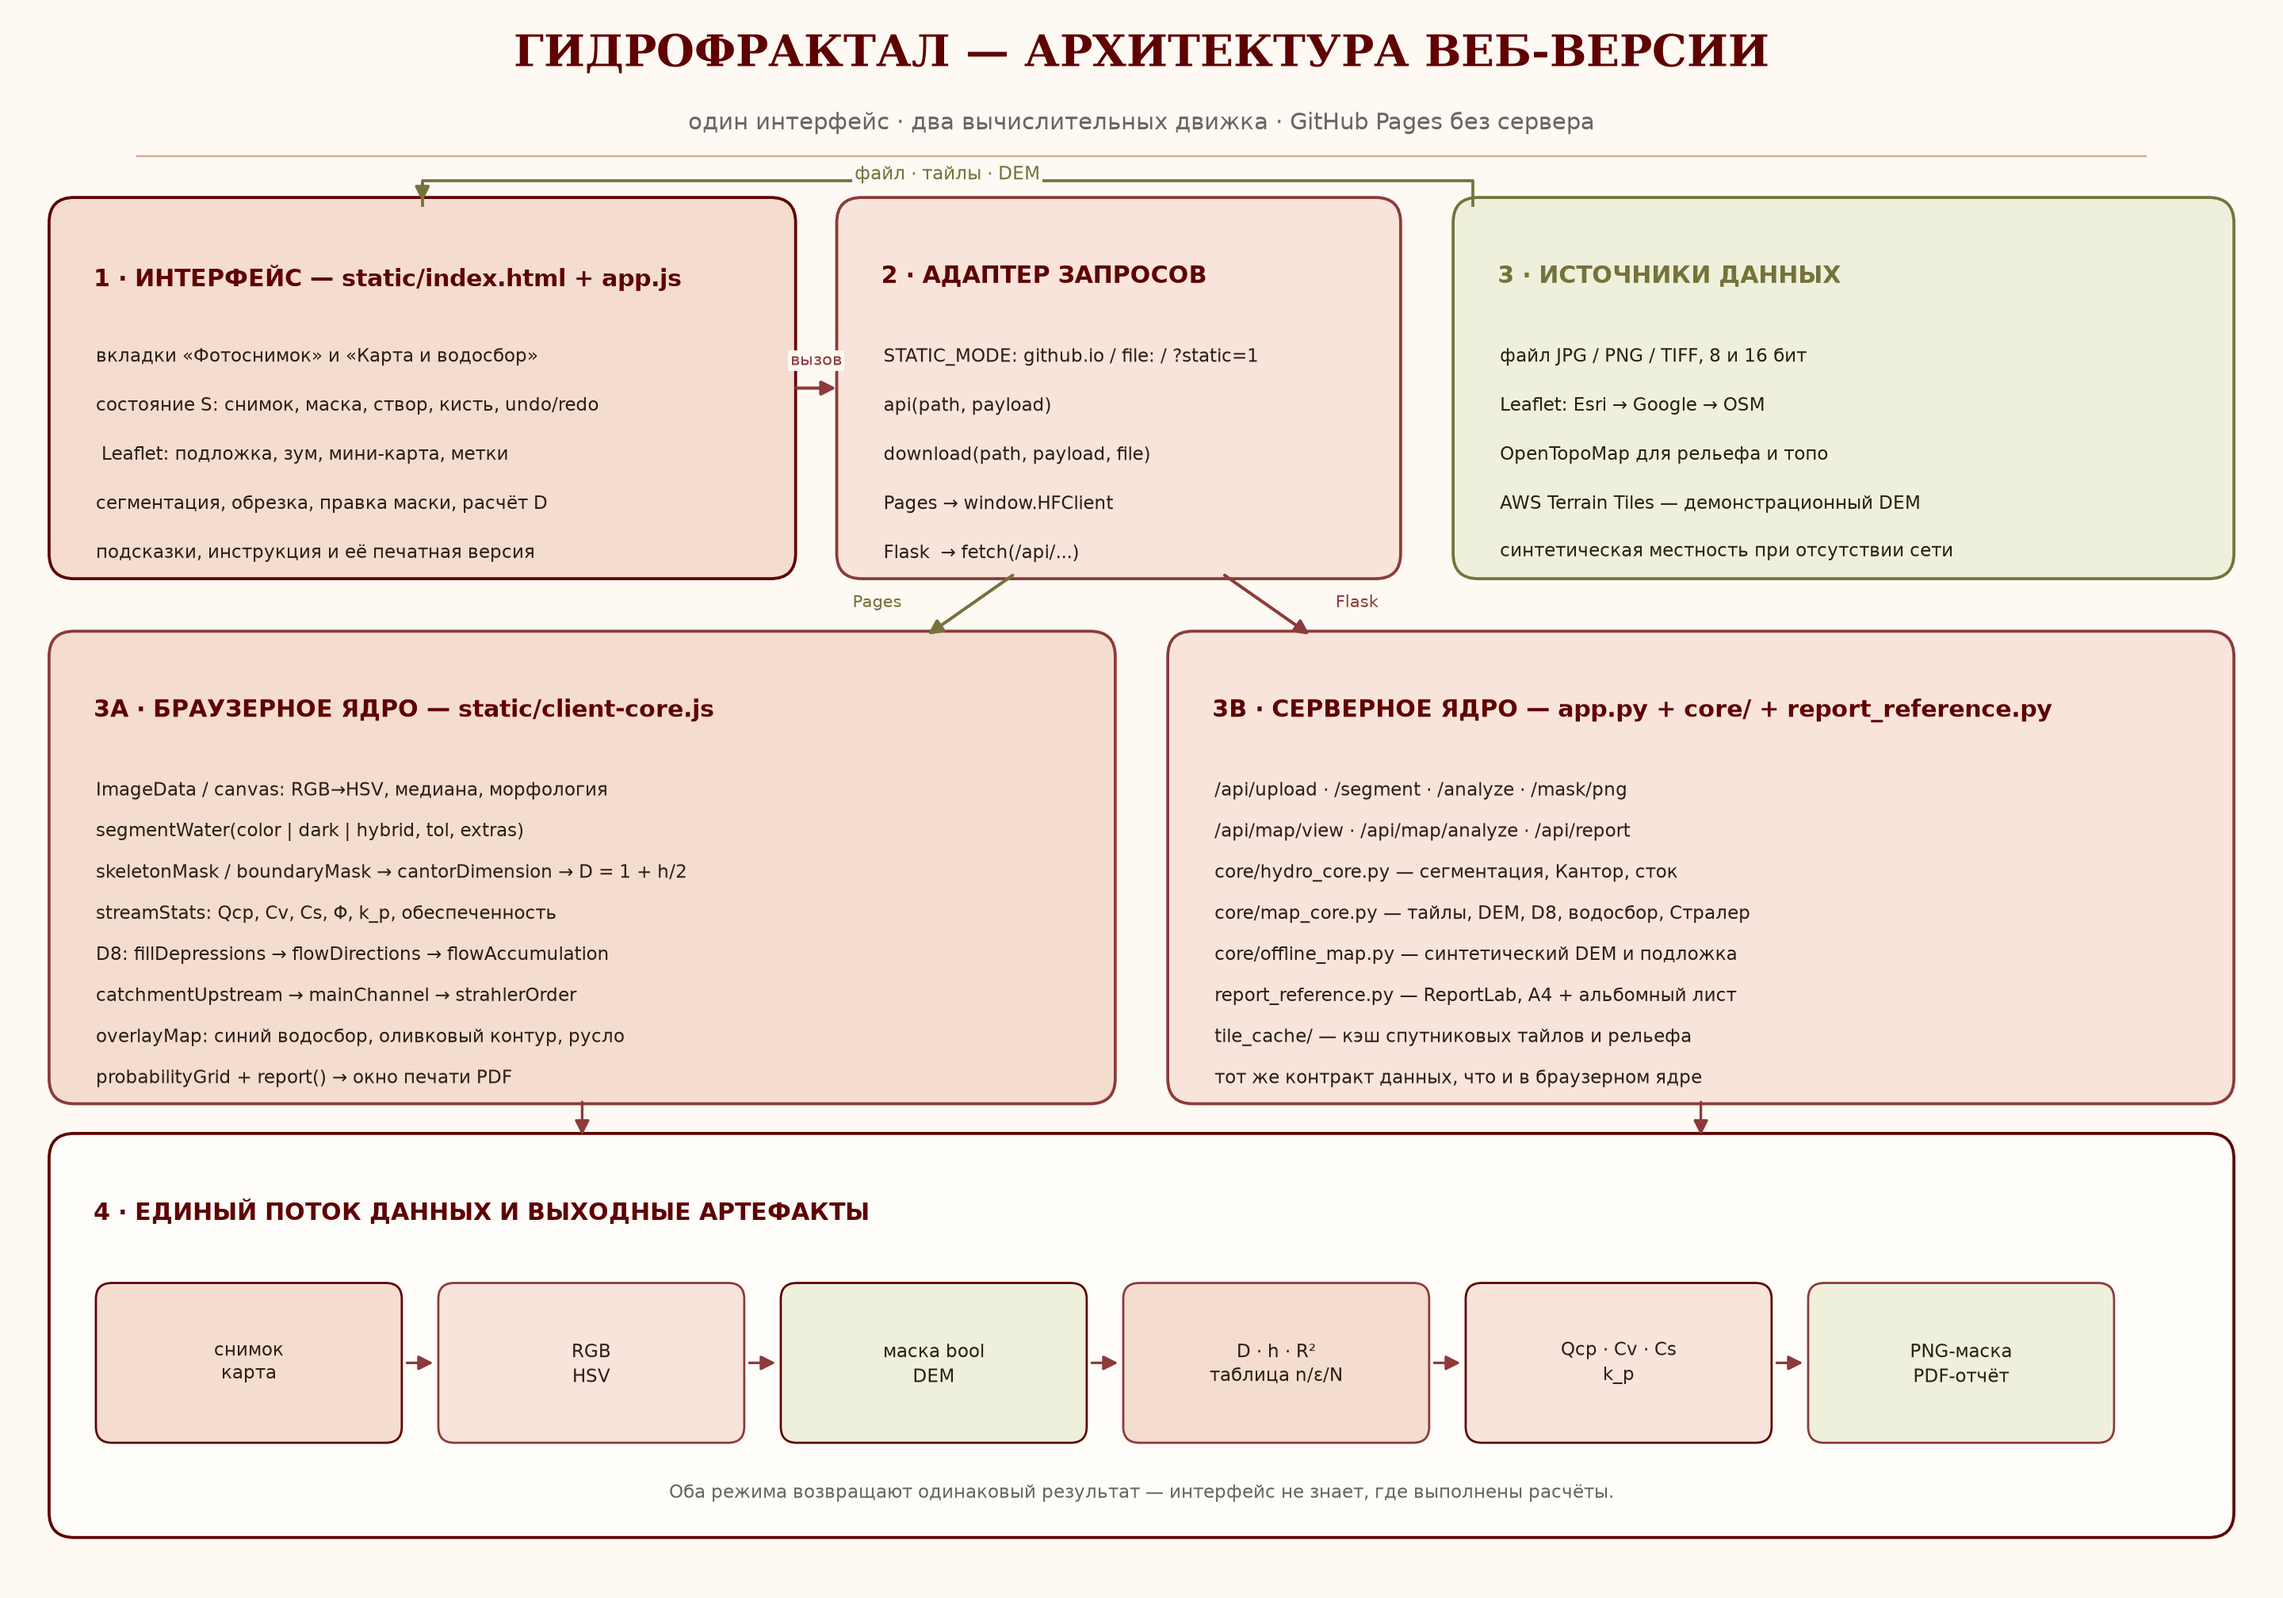
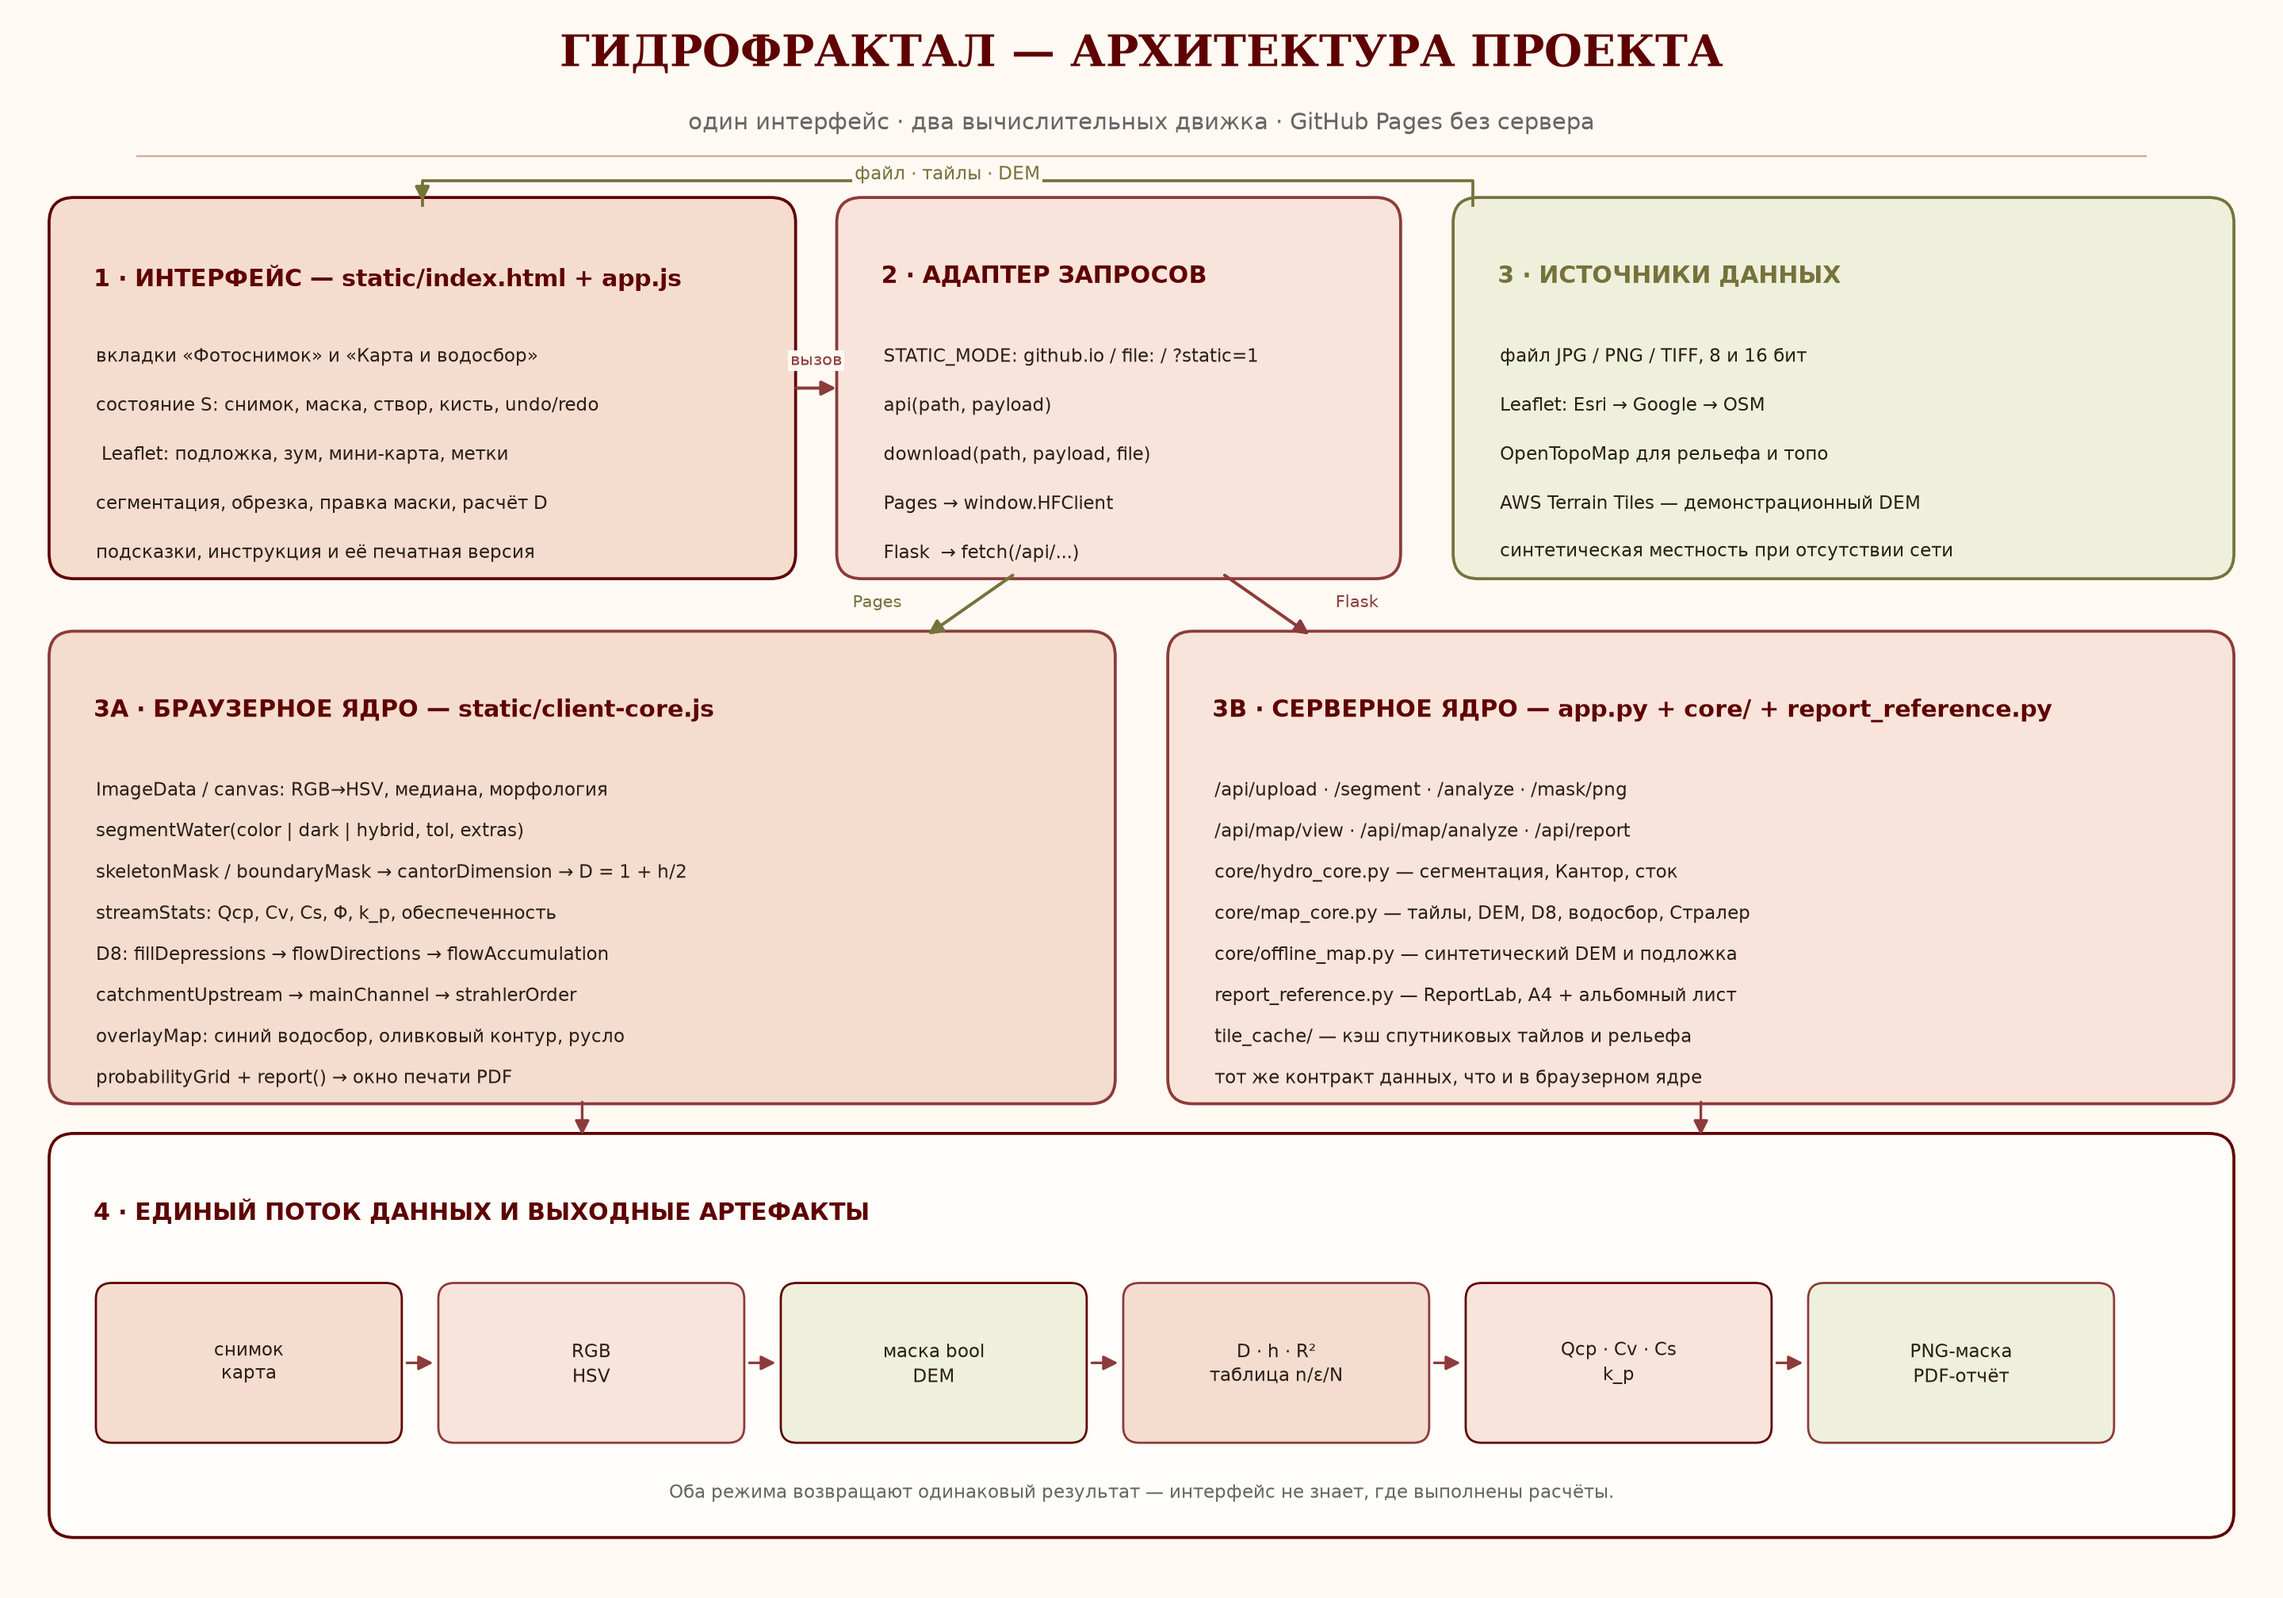
Remove web-version wording from architecture diagram

Changed region(s): [[0.2188, 0.0, 0.7812, 0.0625]]

diff --git a/ARCHITECTURE.md b/ARCHITECTURE.md
@@ -3,7 +3,7 @@
 Это техническая карта проекта: как устроен сайт, где выполняются расчёты, какие
 данные передаются между слоями и почему существуют два вычислительных движка.
 
-![Архитектура веб-версии HydroFractal](arhitektura_web.jpg)
+![Архитектура HydroFractal](arhitektura_web.jpg)
 
 > Векторный исходник схемы — [`arhitektura_web.svg`](arhitektura_web.svg).
 > Схема для оригинального настольного приложения сохранена в `arhitektura.png`.
